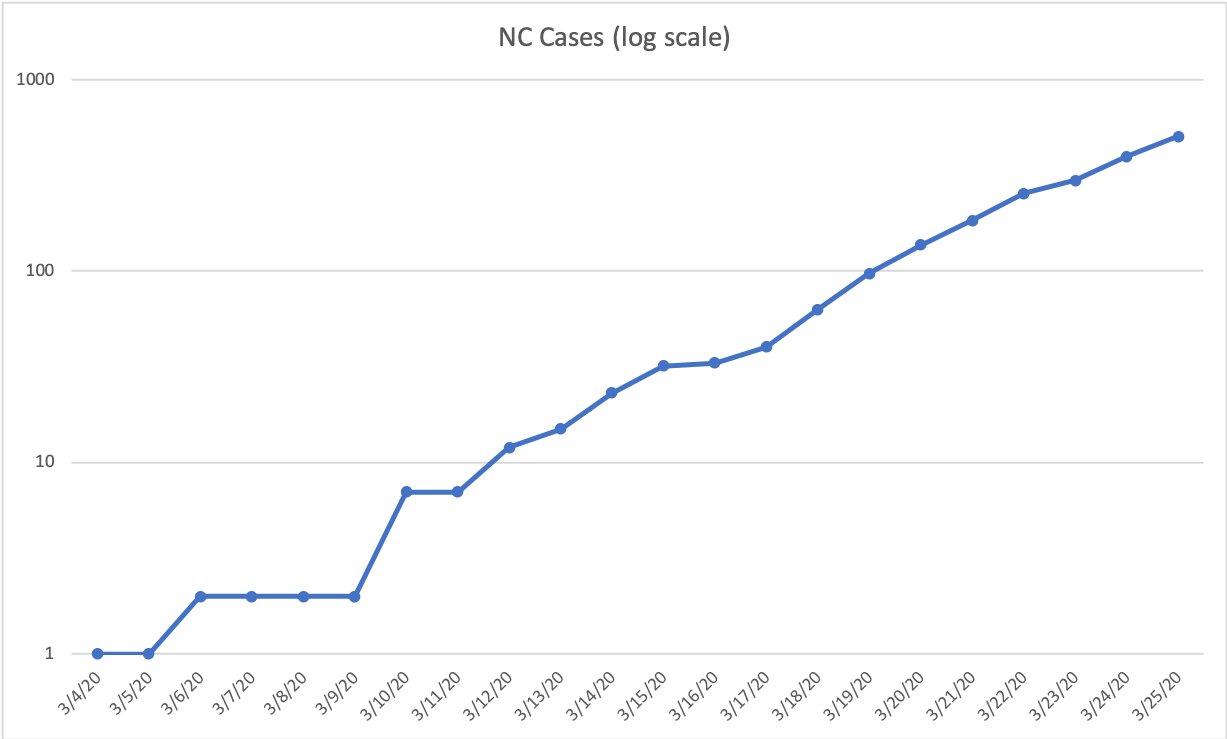
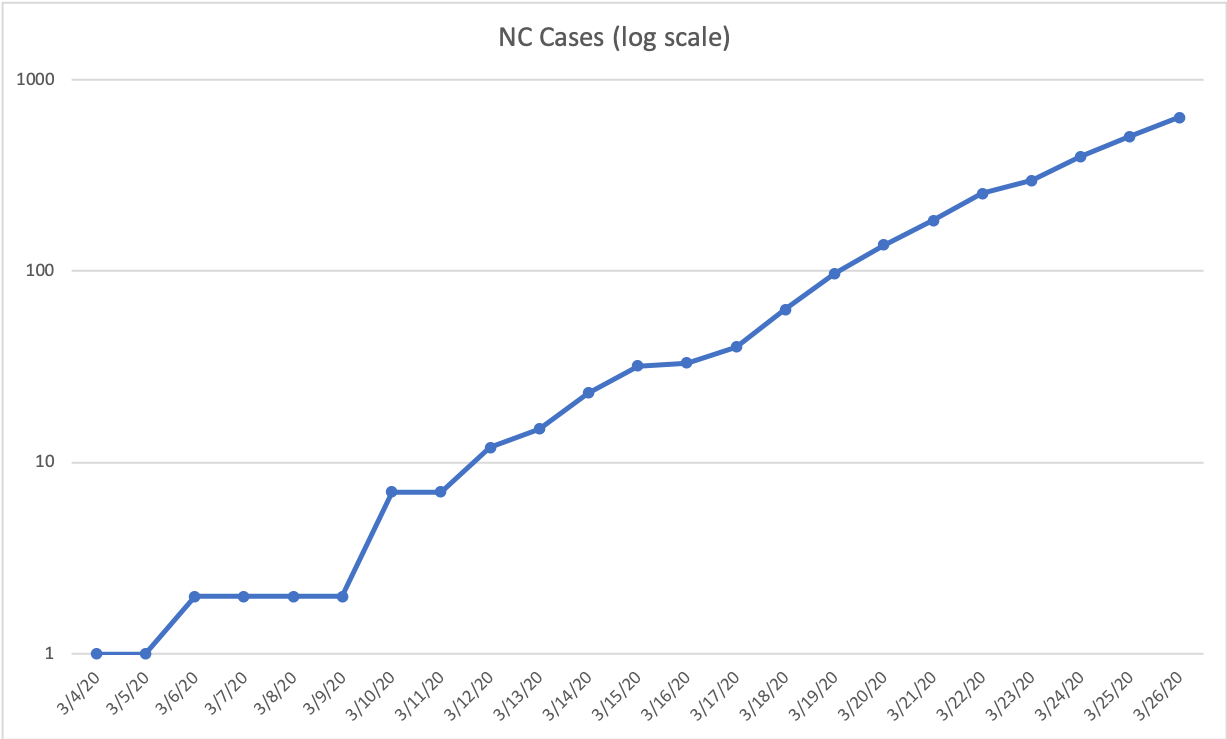
Daily update

diff --git a/README.md b/README.md
@@ -1,7 +1,7 @@
 # COVID-19 NC Case Growth
 Visualizing COVID-19 Case Growth in NC
 
-> *Last Updated:* 3/25/20 at 1:15 PM ET
+> *Last Updated:* 3/26/20 at 2:40 PM ET
 
 > *Data Source:* https://covidtracking.com
 
